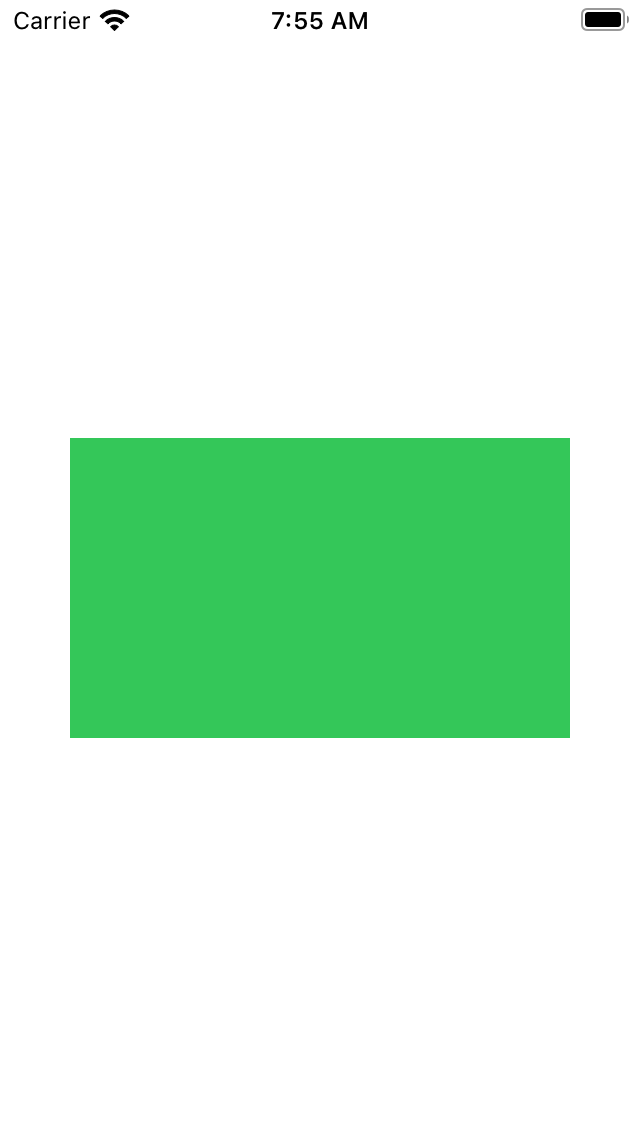
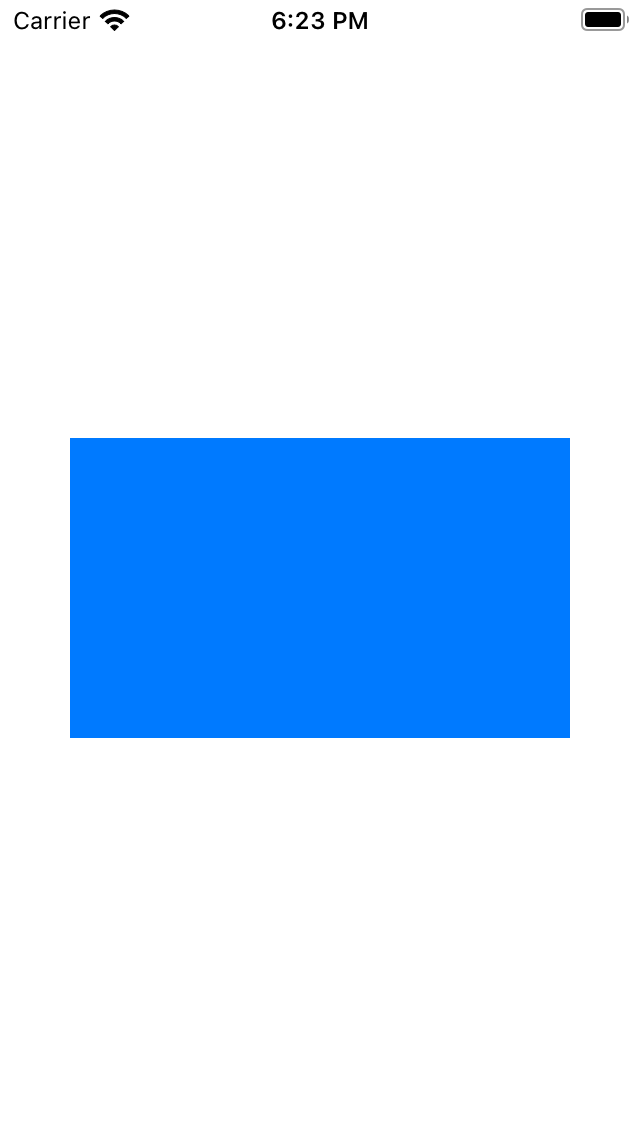
Added RoundedRectangle docs.

Changed region(s): [[0.0938, 0.3697, 0.9062, 0.647], [0.4062, 0.0, 0.5625, 0.0308]]

diff --git a/SwiftUI.swift b/SwiftUI.swift
@@ -16257,7 +16257,7 @@ extension ProjectionTransform {
 /// struct ExampleView: View {
 ///     var body: some View {
 ///         Rectangle()
-///             .fill(Color.green)
+///             .fill(Color.blue)
 ///             .frame(width: 250, height: 150)
 ///     }
 /// }
@@ -17491,8 +17491,78 @@ extension RoundedCornerStyle : Equatable {
 extension RoundedCornerStyle : Hashable {
 }
 
-/// A rectangular shape with rounded corners, aligned inside the frame of the
-/// view containing it.
+/// A RoundedRectangle is a rectangular `Shape` with rounded corners that by 
+/// default, aligns itself inside of the view containing it.
+///
+/// A RoundedRectangle must be created with a specific corner radius or size.
+/// The example below creates a RoundedRectangle with a corner radius of 20, 
+/// and uses the `Shape/fill()` and `View/frame(width:height:)` modifiers
+/// to set the color to blue and the frame to 250 by 150.
+///
+/// ![RoundedRectangle corner radius, fill, and frame example](images/roundedrectangle-example-1.png)
+///
+/// ```
+/// struct ExampleView: View {
+///     var body: some View {
+///         RoundedRectangle(cornerRadius: 20)
+///             .fill(Color.blue)
+///             .frame(width: 250, height: 150)
+///     }
+/// }
+/// ```
+///
+/// The example below uses the same modifiers, but defines a corner size
+/// rather than a corner radius.
+///
+/// ![RoundedRectangle corner size, fill, and frame example](images/roundedrectangle-example-2.png)
+///
+/// ```
+/// struct ExampleView: View {
+///     var body: some View {
+///         RoundedRectangle(cornerSize: CGSize(width: 30, height: 10))
+///             .fill(Color.blue)
+///             .frame(width: 250, height: 150)
+///     }
+/// }
+/// ```
+///
+/// The RoundedRectangle initializer includes an optional parameter for 
+/// specifying the `style`, a `RoundedCornerStyle` that can either be `circular`
+/// or `continuous`. These styles have subtle but noticeable differences:
+///
+/// ![RoundedRectangle init example](roundedrectangle-example-3.png)
+///
+/// ```
+/// struct ExampleView: View {
+///     var body: some View {
+///         VStack(spacing: 20) {
+///             RoundedRectangle(cornerRadius: 50, style: .circular)
+///                 .frame(width: 250, height: 150)
+///     
+///             RoundedRectangle(cornerRadius: 50, style: .continuous)
+///                 .frame(width: 250, height: 150)
+///         }
+///     }
+/// }
+/// ```
+///
+/// To add a border, use the `Shape/stroke(:lineWidth:)` modifier, and use 
+/// the `RoundedRectangle/inset(by:)` modifier to inset the RoundedRectangle by 
+/// half of the border width to keep the RoundedRectangle at its original size:
+///
+/// ![RoundedRectangle inset and stroke example](roundedrectangle-example-4.png)
+///
+/// ```
+/// struct ExampleView: View {
+///     var body: some View {
+///         RoundedRectangle(cornerRadius: 40)
+///             .inset(by: 10)
+///             .stroke(Color.blue, lineWidth: 20)
+///             .frame(width: 250, height: 150)
+///     }
+/// }
+/// ```
+///
 @available(iOS 13.0, macOS 10.15, tvOS 13.0, watchOS 6.0, *)
 @frozen public struct RoundedRectangle : Shape {
 
@@ -17502,43 +17572,122 @@ extension RoundedCornerStyle : Hashable {
 	/// not to be perfect quarter-circles but instead quarter-ellipses.
 	/// Basically, this allows you to specify different width and heights of
 	/// the corners.
+    ///
+    /// ![RoundedRectangle cornerSize example](roundedrectangle-example-6.png)
+    ///
+    /// ```
+    /// struct ExampleView: View {
+    ///     var body: some View {
+    ///         VStack(spacing: 20) {
+    ///             RoundedRectangle(cornerSize: CGSize(width: 30, height: 20))
+    ///                 .frame(width: 250, height: 150)
+    /// 
+    ///             RoundedRectangle(cornerSize: CGSize(width: 20, height: 40))
+    ///                 .frame(width: 250, height: 150)
+    ///         }
+    ///     }
+    /// }
+    /// ```
     public var cornerSize: CGSize
 
     /// The rounded corner style of your rounded rectangle's corners.
     ///
+    /// These styles have subtle but noticeable differences:
+    ///
+    /// ![RoundedRectangle init example](roundedrectangle-example-3.png)
+    ///
+    /// ```
+    /// struct ExampleView: View {
+    ///     var body: some View {
+    ///         VStack(spacing: 20) {
+    ///             RoundedRectangle(cornerRadius: 50, style: .circular)
+    ///                 .frame(width: 250, height: 150)
+    ///     
+    ///             RoundedRectangle(cornerRadius: 50, style: .continuous)
+    ///                 .frame(width: 250, height: 150)
+    ///         }
+    ///     }
+    /// }
+    /// ```
+    ///
     /// -SeeAlso: RoundedCornerStyle
     public var style: RoundedCornerStyle
 
-    /// Creates a rounded rectangle with specified rounded corner width and height.
+    /// Creates a RoundedRectangle with specified rounded corner width and height.
     ///
     /// - Parameters:
     ///   - cornerSize: The size (width and height) of the rectangle's corners.
     ///   - style: The type of rounded corners. Defaults to circular.
+    ///
+    /// ![RoundedRectangle init with cornerSize example](roundedrectangle-example-3.png)
+    ///
+    /// ```
+    /// struct ExampleView: View {
+    ///     var body: some View {
+    ///         VStack(spacing: 20) {
+    ///             RoundedRectangle(
+    ///                 cornerSize: CGSize(width: 20, height: 10)
+    ///             )
+    ///             .frame(width: 250, height: 150)
+    /// 
+    ///             RoundedRectangle(
+    ///                 cornerSize: CGSize(width: 20, height: 10),
+    ///                 style: .continuous
+    ///             )
+    ///             .frame(width: 250, height: 150)
+    ///         }
+    ///     }
+    /// }
+    /// ```
     @inlinable public init(cornerSize: CGSize, style: RoundedCornerStyle = .circular) { }
 
-    /// Creates a rounded rectangle with specified rounded corner radius.
+    /// Creates a RoundedRectangle with specified rounded corner radius.
     ///
     /// - Parameters:
     ///   - cornerRadius: The radius of the rectangle's corners.
     ///   - style: The type of rounded corners. Defaults to circular.
+    ///
+    /// ![RoundedRectangle init with cornerRadius example](roundedrectangle-example-3.png)
+    ///
+    /// ```
+    /// struct ExampleView: View {
+    ///     var body: some View {
+    ///         VStack(spacing: 20) {
+    ///             RoundedRectangle(cornerRadius: 50) // Style defaults to circular
+    ///                 .frame(width: 250, height: 150)
+    ///     
+    ///             RoundedRectangle(cornerRadius: 50, style: .continuous)
+    ///                 .frame(width: 250, height: 150)
+    ///         }
+    ///     }
+    /// }
+    /// ```
     @inlinable public init(cornerRadius: CGFloat, style: RoundedCornerStyle = .circular) { }
 
-    /// Describes this shape as a path within a rectangular frame of reference.
+    /// A RoundedRectangle can be described as a path within a specific `CGRect`
+    /// using the `RoundedRectangle/path(in:)` modifier:
     ///
-    /// - Parameter rect: The frame of reference for describing this shape.
+    /// ![RoundedRectangle path example](roundedrectangle-example-7.png)
     ///
-    /// - Returns: A path that describes this shape.
+    /// ```
+    /// struct ExampleView: View {
+    ///     var body: some View {
+    ///         Capsule()
+    ///             .path(in: CGRect(x: 0, y: 0, width: 75, height: 200))
+    ///     }
+    /// }
+    /// ```
     public func path(in rect: CGRect) -> Path { }
 
-    /// The data to animate.
+    /// > The data to animate.
     public var animatableData: CGSize.AnimatableData
 
-    /// The type defining the data to animate.
+    /// > The type defining the data to animate.
     public typealias AnimatableData = CGSize.AnimatableData
 
-    /// The type of view representing the body of this view.
+    /// > The type of view representing the body of this view.
     ///
-    /// When you create a custom view, Swift infers this type from your
+    /// > When you create a custom view, Swift infers this type from your
     /// implementation of the required `body` property.
     public typealias Body
 }
@@ -17546,11 +17695,24 @@ extension RoundedCornerStyle : Hashable {
 @available(iOS 13.0, macOS 10.15, tvOS 13.0, watchOS 6.0, *)
 extension RoundedRectangle : InsettableShape {
 
-    /// Returns `self` inset by `amount`.
+    /// Returns a RoundedRectangle insetted by the amount specified. For 
+    /// example, insetting by 10 points returns a Capsule that fills its 
+    /// container, with 10 points inset on all four side.
+    ///
+    /// ![RoundedRectangle inset example](roundedrectangle-example-8.png)
+    ///
+    /// ```
+    /// struct ExampleView: View {
+    ///     var body: some View {
+    ///         RoundedRectangle(cornerRadius: 20)
+    ///             .inset(by: 10)
+    ///     }
+    /// }
+    /// ```
     @inlinable public func inset(by amount: CGFloat) -> some InsettableShape { }
 
 
-    /// The type of the inset shape.
+    /// > The type of the inset shape.
     public typealias InsetShape = some InsettableShape
 }
 
